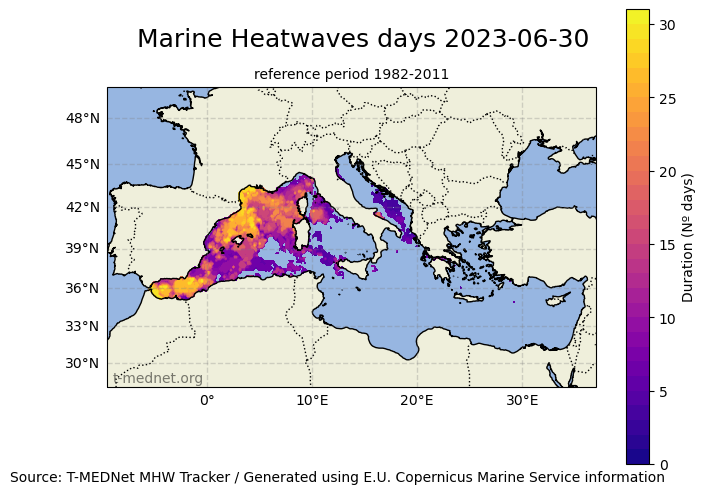
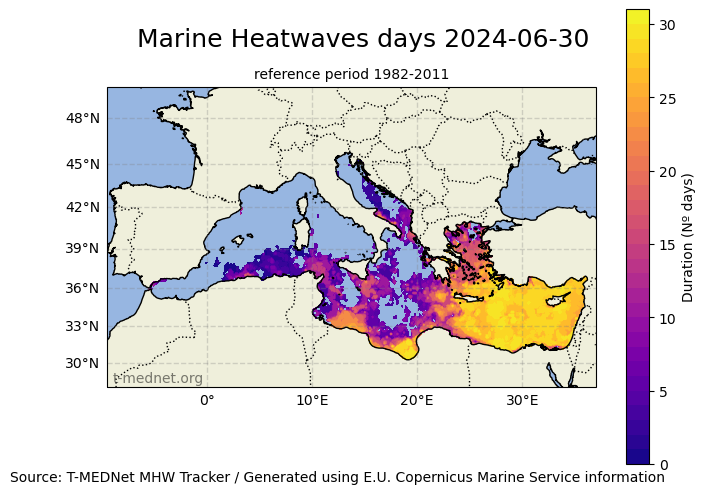
Local changes to mhw_mapper.

Changed region(s): [[0.2184, 0.334, 0.8426, 0.7287], [0.6865, 0.0607, 0.7177, 0.0911], [0.4681, 0.334, 0.4993, 0.3644]]

diff --git a/tmednetGUI/mhw_mapper.py b/tmednetGUI/mhw_mapper.py
@@ -216,7 +216,7 @@ class MHWMapper:
             print('Time for looping over a single lat: ' + str(timu))
         return proc_duration
 
-    def __create_image_by_type(self, lons, lats, mode, filenames):
+    def __create_image_by_type(self, lons, lats, mode, filenames, whole_year=False):
         # Plots the given map and returns the filenames of the temporary images
         # created to be used for the gif
         start = time.time()
@@ -229,8 +229,13 @@ class MHWMapper:
         elif mode == 'duration':
             midi = xr.where(self.ds_MHW_days_sliced >= 1, 1, self.ds_MHW_days_sliced)
             ds = midi.rolling(time=midi.shape[0], min_periods=1).sum()
-            ticks = np.arange(0, 32, 5)
-            levels = np.arange(0, 32, 1)
+            #Check if we want to plot a whole year operation, in which case select acordingly the levels and ticks
+            if whole_year:
+                ticks = np.arange(0, 366, 60)
+                levels = np.arange(0, 366, 1)
+            else:
+                ticks = np.arange(0, 32, 5)
+                levels = np.arange(0, 32, 1)
             cmap = 'plasma'
             ylabel = 'Duration (Nº days)'
         elif mode == 'intensity':
@@ -293,7 +298,7 @@ class MHWMapper:
                 logger.error('Found error on day ' + str(date))
         return filenames
 
-    def map_temperature(self, mode):
+    def map_temperature(self, mode, whole_year=False):
         """
         Given the kind of map that wants to be plotted starts the methods to plot them and creates and saves
         a gif containing the given period of operation.
@@ -306,7 +311,7 @@ class MHWMapper:
         self.__enforce_literals(self.map_temperature)
         lons, lats = self.lon, self.lat
         filenames = []
-        filenames = self.__create_image_by_type(lons, lats, mode, filenames)
+        filenames = self.__create_image_by_type(lons, lats, mode, filenames, whole_year)
         if mode == 'temperature':
             dt = pd.to_datetime(str(self.ds_dtime[0].values))
         else:

diff --git a/tmednetGUI/Proba Marti.py b/tmednetGUI/Proba Marti.py
@@ -1,0 +1,18 @@
+import numpy as np
+import pandas as pd
+import seaborn as sns
+from matplotlib import pyplot as plt
+
+df = pd.read_excel('/home/marcjou/Documentos/PalazzuPopulationEvolution.xlsx', sheet_name='Conjunt Transectes')
+df['Trans+Col'] = df['Transecto'].astype(str) + '_' + df['Id_colony'].astype(str)
+dfy = df.copy()
+dfy.sort_values('Life_years', ascending=True, inplace=True)
+dfy['KM'] = dfy['KM'].fillna('A')
+color = {'B': '#d0cece', 'O': '#7f7f7f', 'N': '#000000', 'X': '#5c5c5c', 'A': '#ececec'}
+#ax = df.plot.barh(x='Trans+Col', y='Mortality_year', color=color)
+ax = sns.barplot(data=dfy, x='Mortality_year', y='Trans+Col', hue='KM', orient='h')
+ax.set_xlim(int(2003), int(2023))
+ax.set_xticks(range(2003, 2024, 1))
+ax.get_yaxis().set_visible(False)
+plt.show()
+print('hi')

diff --git a/tmednetGUI/create_yearly_mhw.py b/tmednetGUI/create_yearly_mhw.py
@@ -1,0 +1,22 @@
+import mhw_mapper as mp
+import sys, getopt, os
+from datetime import datetime, timedelta
+
+
+mode = ''
+MODES = ['intensity', 'duration']
+mode = 'all'
+last_day = False
+
+print('Selected map is ', mode)
+start_date = '2023-01-01'
+#start_date = '2024-04-01'
+end_date = '2023-12-31'
+#end_date = '2024-04-08'
+df_map = mp.MHWMapper('/mnt/MHW/2023_MHW.nc', start_period=start_date, end_period=end_date)
+if mode == 'all':
+    for i in MODES:
+        df_map.map_temperature(i, whole_year=True)
+else:
+    df_map.map_temperature(mode, whole_year=True)
+print('Map of {} successfully created at src/output_images'.format(mode))

diff --git a/tmednetGUI/create_maps.py b/tmednetGUI/create_maps.py
@@ -26,9 +26,9 @@ def main(argv):
         print(opts)
     print('Selected map is ', mode)
     start_date = datetime.strftime(datetime.today() - timedelta(days=1), '%Y-%m-%d')[:-2] + '01'
-    #start_date = '2023-11-01'
+    #start_date = '2024-06-01'
     end_date = datetime.strftime(datetime.today() - timedelta(days=1), '%Y-%m-%d')
-    #end_date = '2023-11-30'
+    #end_date = '2024-06-30'
     if datetime.today().day == 1:
         last_day = True
     df_map = mp.MHWMapper('/mnt/MHW/2024_MHW.nc', start_period=start_date, end_period=end_date)
